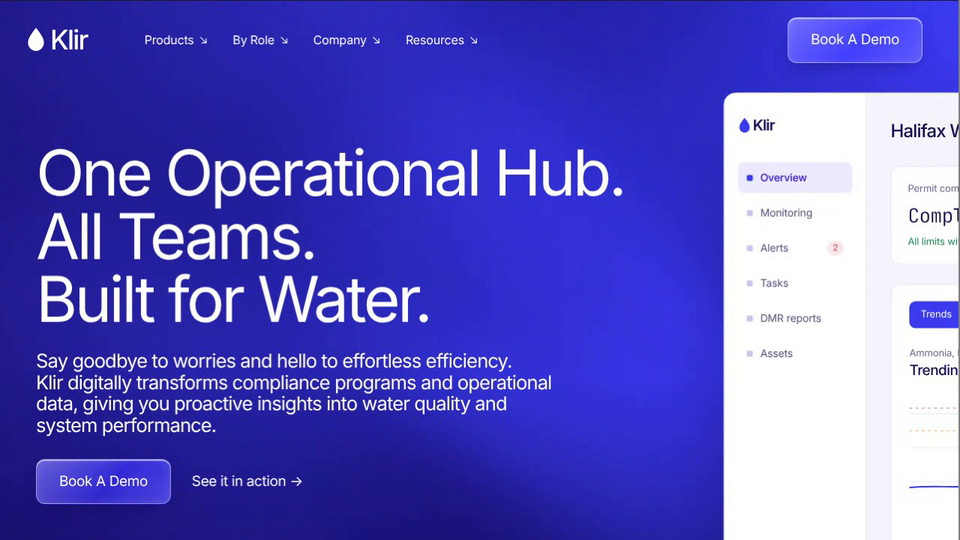
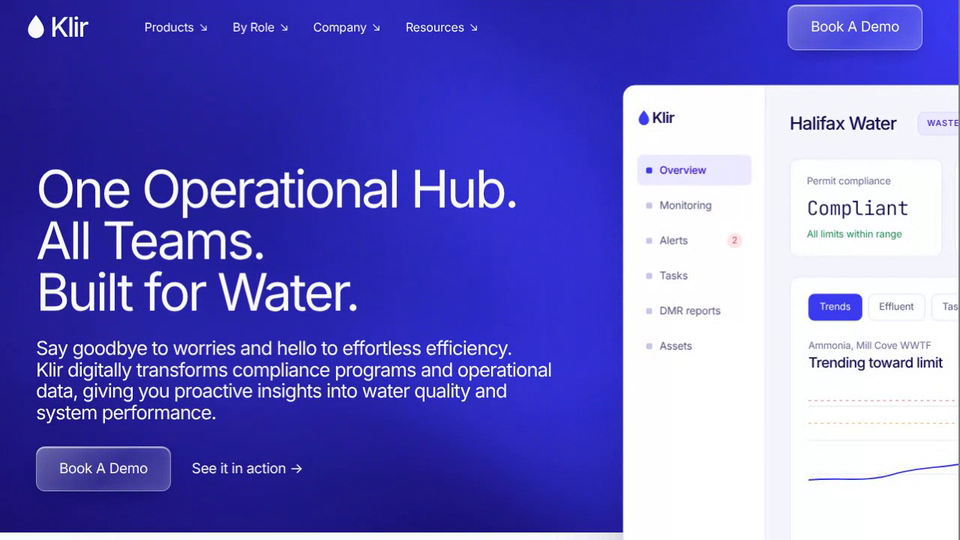
Klir Side Reveal: pinned hero, smaller headline, dashboard further left (#532)
* Add Klir Landing Page, Side Reveal: dashboard peeks in from the right and slides to centre on scroll

Claude-Session: https://claude.ai/code/session_01AHeBdyKiiUaJC1VuNiJRth

* Klir side reveal: pin the hero while the dashboard slides in, smaller headline, dashboard rests further left

Claude-Session: https://claude.ai/code/session_01AHeBdyKiiUaJC1VuNiJRth

---------

diff --git a/klir-landing-page-side-reveal/index.html b/klir-landing-page-side-reveal/index.html
@@ -27,7 +27,7 @@ nav.back b{font-weight:500;color:#fff;overflow:hidden;text-overflow:ellipsis}
 header.site{position:absolute;top:0;left:0;right:0;z-index:3;display:flex;align-items:center;gap:36px;padding:22px 48px 22px 35px}
 .logo{text-decoration:none;display:flex;align-items:center;gap:6px;font-weight:500;font-size:36px;letter-spacing:-.05em;color:#fff}
 header.site .links{display:flex;gap:34px;font-size:16px;margin-right:auto;margin-left:40px;letter-spacing:-.01em}
-.hero h1{color:#fff;font-weight:300;font-size:clamp(44px,6.6vw,96px);line-height:1;letter-spacing:-.045em;max-width:12em;white-space:nowrap}
+.hero h1{color:#fff;font-weight:300;font-size:clamp(38px,5.4vw,78px);line-height:1;letter-spacing:-.045em;max-width:12em;white-space:nowrap}
 .hero .sub{font-size:clamp(19px,2vw,27px);line-height:1.12;letter-spacing:-.035em;max-width:27em;margin-top:26px}
 .hero .cta{margin-top:30px;align-items:center;gap:28px}
 .btn{display:inline-block;background:var(--blue);color:#fff;text-decoration:none;font-weight:400;font-size:19px;letter-spacing:-.02em;padding:15px 30px;border-radius:6px;transition:background .2s}
@@ -331,7 +331,7 @@ function layout(){
   nodes=[...document.querySelectorAll('.eyebrow.node')].map(e=>{const r=e.getBoundingClientRect();return{y:r.top-m.top+r.height/2,el:e}});
   $('nodes').innerHTML=nodes.map((n,i)=>`<g id="n${i}" opacity="0" style="transition:opacity .35s"><use href="#drop" transform="translate(${X} ${n.y+1}) scale(1.1)" fill="#fafbff" stroke="#fafbff" stroke-width="7" stroke-linejoin="round"/><use href="#drop" transform="translate(${X} ${n.y+1}) scale(1.1)" fill="#fff" stroke="#3b3bef" stroke-width="1.7"/></g>`).join('');
   LT=Math.max(HB,(nodes[0]?nodes[0].y:HB)-60);$('solid').setAttribute('y1',LT);$('solid').setAttribute('y2',H);const fg=$('fade');fg.setAttribute('y1',LT);fg.setAttribute('y2',H);
-  {const u=$('ui'),vw=wrap.clientWidth,sm=vw<=820;UN=wrap.offsetTop+u.offsetTop;SY=49+HB*(sm?.3:.17);EY=Math.max(sm?70:90,innerHeight*.125);TX0=vw-(sm?.24:.28)*u.offsetWidth-u.offsetLeft}
+  {const u=$('ui'),vw=wrap.clientWidth,sm=vw<=820;UN=wrap.offsetTop+u.offsetTop;SY=49+HB*(sm?.3:.17);EY=Math.max(sm?70:90,innerHeight*.125);TX0=vw-(sm?.3:.4)*u.offsetWidth-u.offsetLeft}
   tick();
 }
 function tick(){
@@ -342,10 +342,12 @@ function tick(){
   $('tip1').classList.toggle('show',pp>.75);$('tip2').classList.toggle('show',pp>.92);
   /* hero text fades out first (gone by half way), then the Klir pill fades in above the dashboard */
   {const o=Math.max(0,Math.min(1,(pp-.55)/.25)),pl=$('pill');pl.style.opacity=o;pl.style.pointerEvents=o>.5?'auto':'none'}
-  heroEls.forEach(e=>{e.style.opacity=Math.max(0,1-pp*2);e.style.transform=`translateY(${-pp*30}px)`});
-  /* the dashboard rests off to the right (a sliver visible), then slides to the centre and up to its final seat as the page scrolls */
-  {const e=pp*pp*(3-2*pp),s=Math.min(scrollY,HB*.8),vy=SY+(EY-SY)*e;$('ui').style.transform=`translate(${TX0*(1-e)}px,${vy+s-UN}px)`;
-  const ur=$('ui').getBoundingClientRect();tail.style.height=Math.max(HB,ur.top-wrap.getBoundingClientRect().top+pp*ur.height/2,s+innerHeight*(1-.38*pp)-wrap.offsetTop)+'px'}
+  heroEls.forEach(e=>{e.style.opacity=Math.max(0,1-pp*2)});
+  /* the hero stays put while the dashboard slides in (it only pulls up by the height of the black nav bar), then lets go and scrolls away with the page */
+  {const e=pp*pp*(3-2*pp),s=Math.min(scrollY,HB*.8),n=Math.min(s,49),pin=`translateY(${s-n}px)`,k=Math.max(0,Math.min(1,(pp-.6)/.4)),kk=k*k*(3-2*k);
+  document.querySelector('.hero').style.transform=pin;tail.style.transform=pin;
+  tail.style.height=(HB+n-kk*.38*innerHeight)+'px';
+  const vy=SY+(EY-SY)*e;$('ui').style.transform=`translate(${TX0*(1-e)}px,${vy+s-UN}px)`}
   const top=wrap.getBoundingClientRect().top,y=Math.max(LT,Math.min(H,innerHeight*.5-top));
   
   const t=`translate(${X} ${y}) scale(1.1)`;$('dw').setAttribute('transform',t);$('db').setAttribute('transform',t);$('dh').setAttribute('transform',t);
@@ -363,7 +365,7 @@ addEventListener('scroll',()=>mm.classList.remove('open'),{passive:true});addEve
 const io=new IntersectionObserver(es=>es.forEach(e=>{if(!e.isIntersecting)return;const c=e.target;io.unobserve(c);c.classList.add('vis');
 c.querySelectorAll('[data-v]').forEach(n=>{const to=+n.dataset.v,t0=performance.now()+700;(function f(t){const k=Math.max(0,Math.min(1,(t-t0)/1200));n.textContent=(to*(1-Math.pow(1-k,3))).toFixed(1);if(k<1)requestAnimationFrame(f)})(t0)})}),{threshold:.35});
 cs.forEach(c=>io.observe(c))})();
-const app=document.querySelector('.app'),tail=$('wbg'),heroEls=document.querySelectorAll('.hero h1,.hero .sub,.hero .cta');let played=0;
+const app=document.querySelector('.app'),tail=$('wbg'),heroEls=document.querySelectorAll('.hero header.site,.hero h1,.hero .sub,.hero .cta');let played=0;
 function runLine(){const tr=$('trend'),TL=tr.getTotalLength(),dot=$('dot'),t0=performance.now()+300;(function f(t){const k=Math.max(0,Math.min(1,(t-t0)/1800)),e=k<.5?4*k*k*k:1-Math.pow(-2*k+2,3)/2;tr.style.strokeDashoffset=1-e;const pt=tr.getPointAtLength(e*TL);dot.setAttribute('transform',`translate(${pt.x} ${pt.y})`);dot.setAttribute('opacity',k>0?1:0);if(k<1)requestAnimationFrame(f);else{$('wlab').style.opacity=1;app.classList.add('warned')}})(t0)}
 function play(){played=1;app.querySelectorAll('.k').forEach((e,i)=>e.style.animationDelay=i*.12+'s');app.querySelectorAll('.f').forEach((e,i)=>e.style.animationDelay=.5+i*.15+'s');app.classList.add('in');runLine();setTimeout(startLoop,6500);
 app.querySelectorAll('[data-n]').forEach(e=>{const to=+e.dataset.n,t0=performance.now();(function f(t){const k=Math.min(1,(t-t0)/1100);e.textContent=Math.round(to*(1-Math.pow(1-k,3)));if(k<1)requestAnimationFrame(f)})(t0)})}
